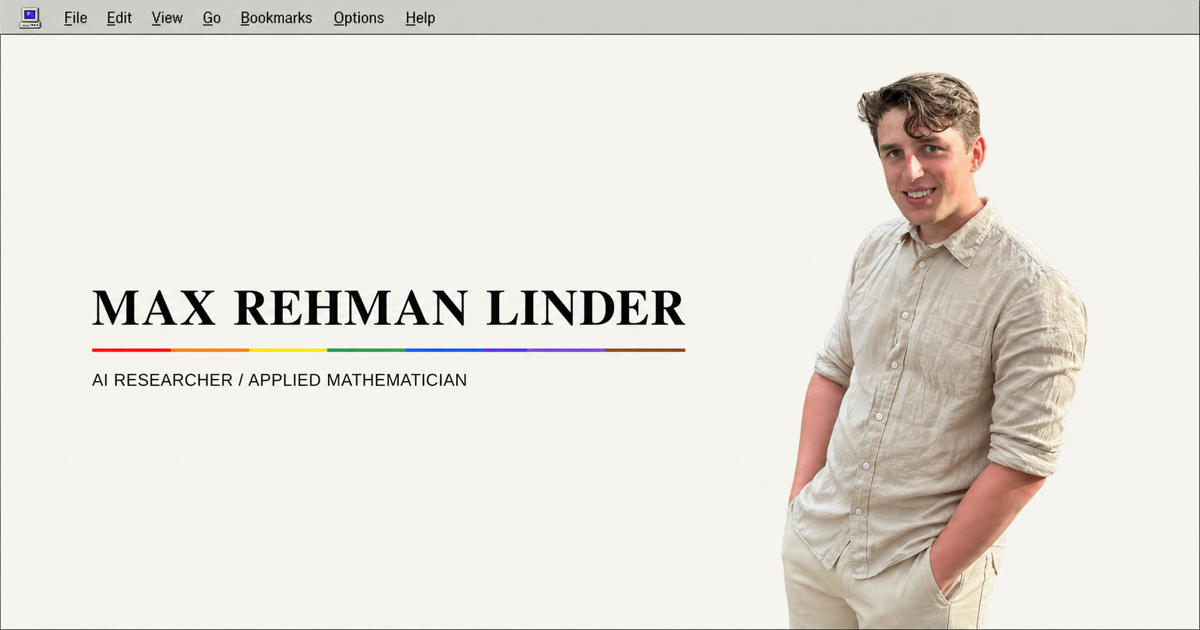
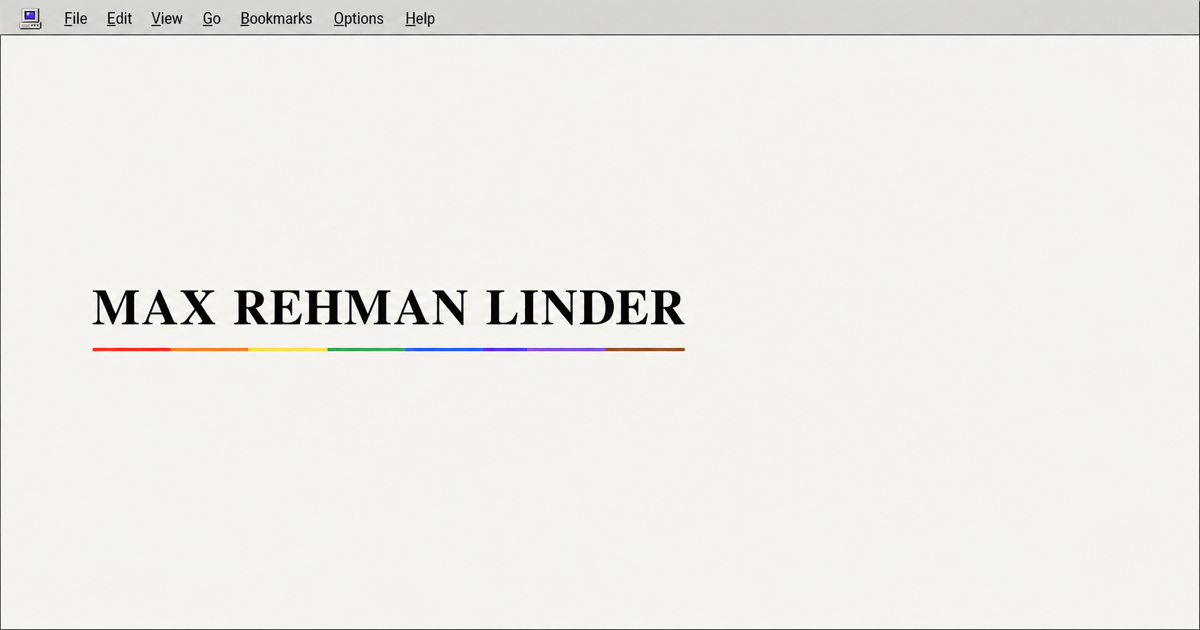
Replace portrait cover with name-only design

diff --git a/styles.css b/styles.css
@@ -554,17 +554,17 @@ site-sidebar {
 }
 
 .front-page {
-  display: grid;
-  padding: 36px 38px 34px;
-  grid-template-columns: minmax(0, 1fr) 335px;
-  gap: 55px;
-  align-items: start;
+  padding: 48px 48px 52px;
+}
+
+.front-copy {
+  max-width: 790px;
 }
 
 .front-copy h1 {
-  max-width: 9ch;
+  max-width: none;
   margin: 0;
-  font: bold clamp(48px, 7vw, 78px) / 0.86 var(--serif);
+  font: bold clamp(48px, 7.8vw, 92px) / 0.88 var(--serif);
   letter-spacing: -0.055em;
 }
 
@@ -612,30 +612,6 @@ site-sidebar {
 .plain-links span {
   padding: 0 8px;
   color: var(--rule);
-}
-
-.portrait-figure {
-  margin: 0;
-  padding: 6px;
-  border: 1px solid var(--ink);
-  background: var(--chrome);
-  box-shadow:
-    inset 1px 1px 0 #fff,
-    inset -1px -1px 0 #777;
-}
-
-.portrait-figure img {
-  display: block;
-  width: 100%;
-  height: auto;
-  border-bottom: 1px solid var(--ink);
-  object-fit: contain;
-}
-
-.portrait-figure figcaption {
-  padding: 7px 2px 1px;
-  font: 11px/1.4 var(--mono);
-  text-align: right;
 }
 
 .site-index {
@@ -1296,13 +1272,6 @@ html[data-animations="on"] .boot-screen.is-running .boot-progress span {
 
   .front-page {
     padding: 30px 25px;
-    grid-template-columns: 1fr;
-    gap: 42px;
-  }
-
-  .portrait-figure {
-    width: min(100%, 380px);
-    margin: 0 auto;
   }
 
   .site-index {

diff --git a/index.html b/index.html
@@ -95,15 +95,6 @@
             </p>
           </div>
 
-          <figure class="portrait-figure">
-            <img
-              src="/resources/me_cutout.png"
-              alt="Max Rehman Linder smiling"
-              width="1109"
-              height="1266"
-            />
-            <figcaption>Max Rehman Linder, 2026</figcaption>
-          </figure>
         </div>
       </section>
     </main>
